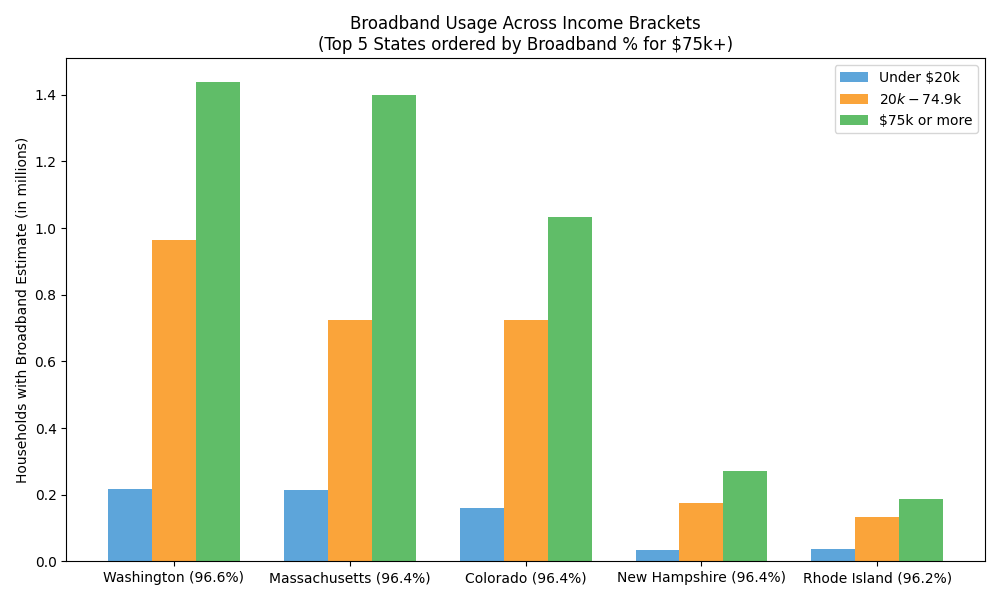
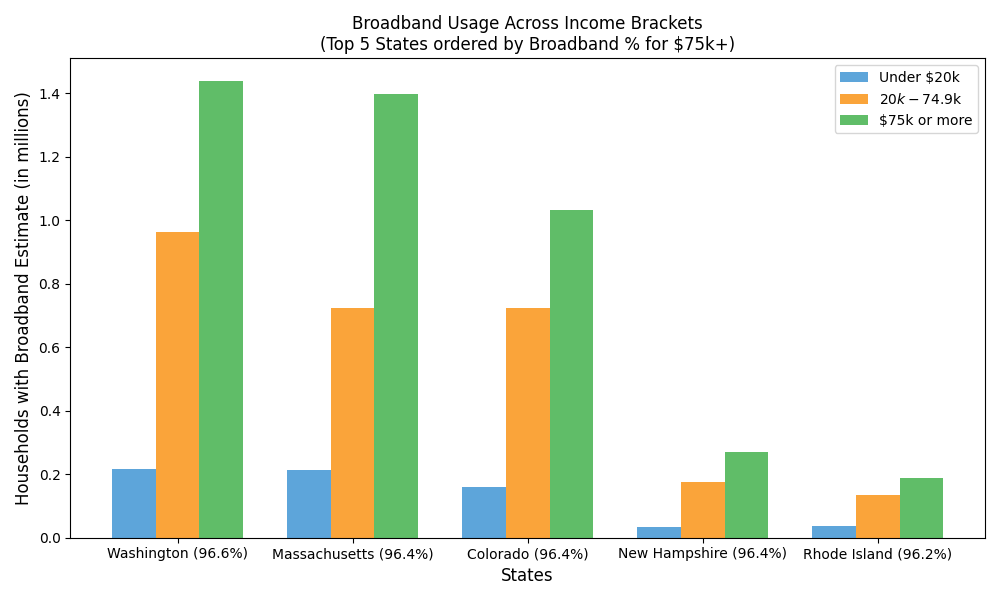
feat: added x-axis titles and increased font size to 12 for all axis titles

diff --git a/all_visuals.py b/all_visuals.py
@@ -79,7 +79,8 @@ ax1.bar(x1 - width1, top_5_states_graph1['Income_Under20k_BB'] / 1_000_000, widt
 ax1.bar(x1, top_5_states_graph1['Income_20k-75k_BB'] / 1_000_000, width1, label='$20k - $74.9k', color='#faa43a')
 ax1.bar(x1 + width1, top_5_states_graph1['Income_75k+_BB'] / 1_000_000, width1, label='$75k or more', color='#60bd68')
 
-ax1.set_ylabel('Households with Broadband Estimate (in millions)')
+ax1.set_xlabel('States', fontsize=12)
+ax1.set_ylabel('Households with Broadband Estimate (in millions)', fontsize=12)
 ax1.set_title('Broadband Usage Across Income Brackets\n(Top 5 States ordered by Broadband % for $75k+)')
 ax1.set_xticks(x1)
 ax1.set_xticklabels(states_labels_1)
@@ -105,7 +106,8 @@ fig2, ax2 = plt.subplots(figsize=(10, 6))
 ax2.bar(x2 - width2/2, top_5_states_graph2['Smartphone_Pct'], width2, label='Smartphone', color='#4d4d4d')
 ax2.bar(x2 + width2/2, top_5_states_graph2['Desktop_Laptop_Pct'], width2, label='Desktop/Laptop', color='#5da5da')
 
-ax2.set_ylabel('Percentage of Total State Households (%)')
+ax2.set_xlabel('States', fontsize=12)
+ax2.set_ylabel('Percentage of Total State Households (%)', fontsize=12)
 ax2.set_title('Device Ownership (Top 5 States ordered by Desktop/Laptop %)')
 ax2.set_xticks(x2)
 ax2.set_xticklabels(states_labels_2)
@@ -145,7 +147,8 @@ ax3.bar(x3 - width3/2, top_5_states_graph3['Optic_DSL'] / 1_000_000, width3, lab
 ax3.bar(x3 + width3/2, top_5_states_graph3['Satellite'] / 1_000_000, width3, label='Satellite', color='#faa43a')
 
 # Formatting the chart
-ax3.set_ylabel('Households (in millions)')
+ax3.set_xlabel('States', fontsize=12)
+ax3.set_ylabel('Households (in millions)', fontsize=12)
 ax3.set_title('Optic/DSL vs Satellite Internet Users\n(Top 5 states from previous charts, ordered by highest gap)')
 ax3.set_xticks(x3)
 ax3.set_xticklabels(states_labels_3)
